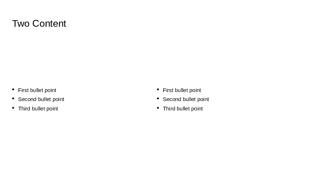
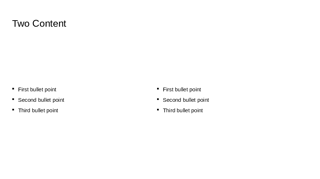
fix(template): improve business native body leading

Changed region(s): [[0.4688, 0.4749, 0.6562, 0.6425], [0.0312, 0.4749, 0.2188, 0.6425]]

diff --git a/internal/generator/business_body_style_test.go b/internal/generator/business_body_style_test.go
@@ -1,0 +1,76 @@
+package generator
+
+import (
+	"context"
+	"encoding/xml"
+	"path/filepath"
+	"strings"
+	"testing"
+)
+
+func TestBusinessTwoContentPreservesReadableNativeLeading(t *testing.T) {
+	templatePath := "../../templates/business-template.pptx"
+	check := func(path string) {
+		t.Helper()
+		type level struct {
+			Leading struct {
+				Value string `xml:"val,attr"`
+			} `xml:"lnSpc>spcPct"`
+			Font struct {
+				Size string `xml:"sz,attr"`
+			} `xml:"defRPr"`
+		}
+		var layout struct {
+			Shapes []struct {
+				Identity struct {
+					Name string `xml:"name,attr"`
+				} `xml:"nvSpPr>cNvPr"`
+				First  level `xml:"txBody>lstStyle>lvl1pPr"`
+				Second level `xml:"txBody>lstStyle>lvl2pPr"`
+			} `xml:"cSld>spTree>sp"`
+		}
+		if err := xml.Unmarshal([]byte(readZipFileString(t, path, "ppt/slideLayouts/slideLayout5.xml")), &layout); err != nil {
+			t.Fatal(err)
+		}
+		seen := map[string]bool{}
+		for _, shape := range layout.Shapes {
+			if shape.Identity.Name != "body" && shape.Identity.Name != "body_2" {
+				continue
+			}
+			if seen[shape.Identity.Name] {
+				t.Fatal("duplicate native body placeholder")
+			}
+			seen[shape.Identity.Name] = true
+			if shape.First.Leading.Value != "110000" || shape.Second.Leading.Value != "110000" || shape.First.Font.Size != "1800" || shape.Second.Font.Size != "1600" {
+				t.Errorf("native parent/child leading or font size drifted on %s: %+v %+v", shape.Identity.Name, shape.First, shape.Second)
+			}
+		}
+		if !seen["body"] || !seen["body_2"] {
+			t.Fatal("native editable bullet columns missing")
+		}
+		master := readZipFileString(t, path, "ppt/slideMasters/slideMaster1.xml")
+		if strings.Count(master, "Confidential 2024") != 1 {
+			t.Fatal("native master legal text must remain exactly once")
+		}
+	}
+	check(templatePath)
+	output := filepath.Join(t.TempDir(), "business-leading.pptx")
+	_, _, err := generateSinglePass(context.Background(), GenerationRequest{
+		TemplatePath: templatePath, OutputPath: output, ExcludeTemplateSlides: true,
+		Slides: []SlideSpec{{LayoutID: "slideLayout5", Content: []ContentItem{
+			{PlaceholderID: "title", Type: ContentText, Value: "Required title"},
+			{PlaceholderID: "body", Type: ContentBullets, Value: []string{"Left complete parent", "\tLeft complete child"}},
+			{PlaceholderID: "body_2", Type: ContentBullets, Value: []string{"Right complete parent", "\tRight complete child"}},
+		}}},
+	})
+	if err != nil {
+		t.Fatal(err)
+	}
+	check(output)
+	slide := readZipFileString(t, output, "ppt/slides/slide1.xml")
+	for _, text := range []string{"Required title", "Left complete parent", "Left complete child", "Right complete parent", "Right complete child"} {
+		if strings.Count(slide, "<a:t>"+text+"</a:t>") != 1 {
+			t.Errorf("required complete text %q must remain exactly once", text)
+		}
+	}
+}
